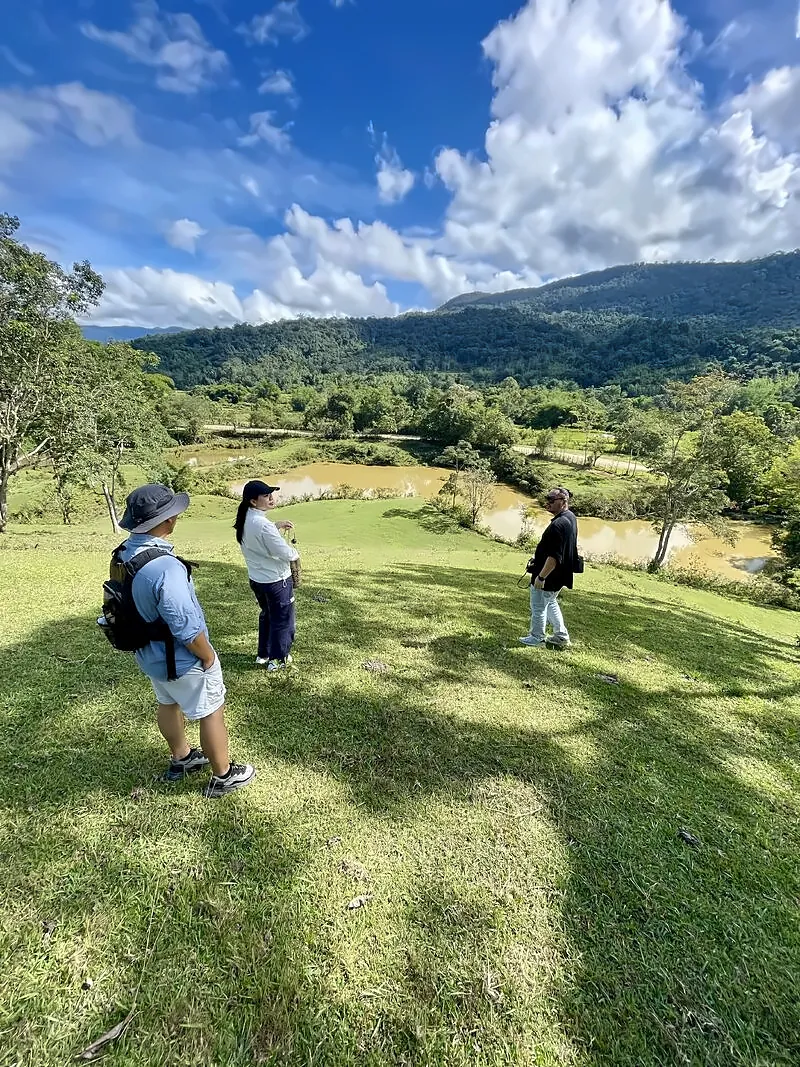
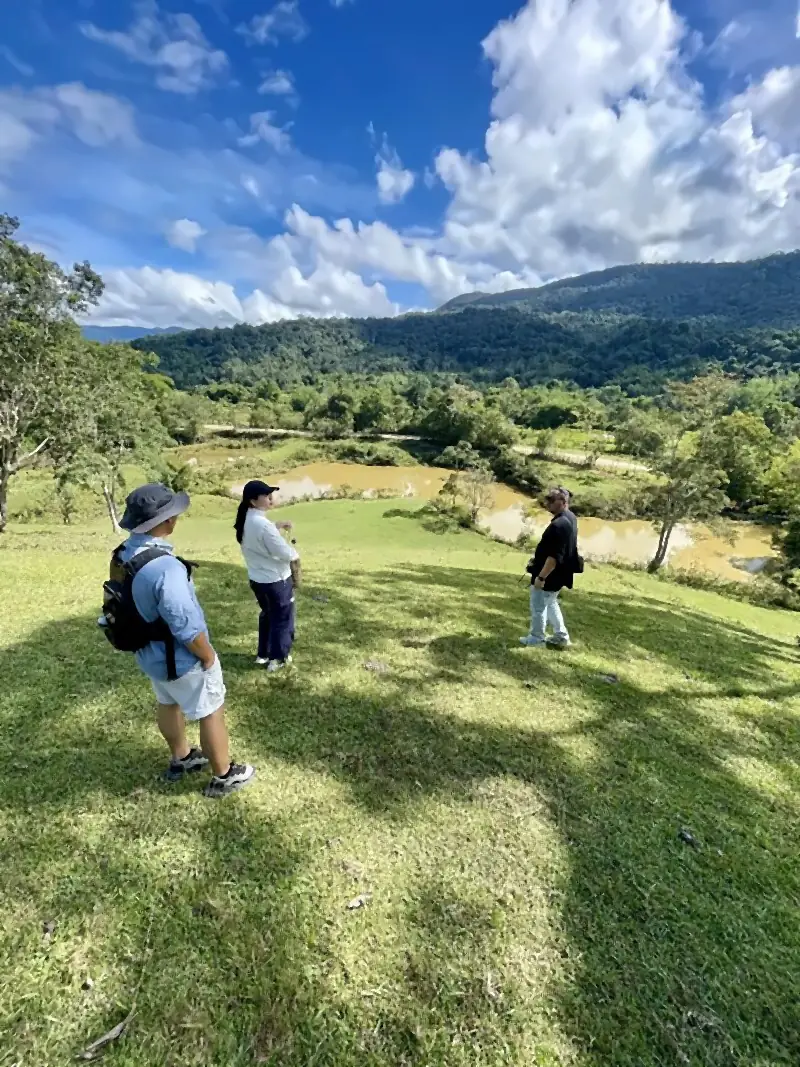
Review fixes: credentials label, bio, page intros, contact heading, new headshot
- Home intro label shows credentials only (no "About ·")
- Second bio paragraph no longer repeats "My research…"
- Research intro and Publications intro ("Publications to date") rewritten
- Contact band: "Get in touch" heading with the welcome line below it
- New headshot cropped from the Perth photo (640×800); headshot TODO removed
- semadoh-highlands.webp recompressed (281 KB → 127 KB)

Claude-Session: https://claude.ai/code/session_01BHaNzAzSg7x4kSjcefhwGM

Changed region(s): [[0.0, 0.1856, 1.0, 1.0], [0.6562, 0.2784, 0.7812, 0.3093]]

diff --git a/assets/js/main.js b/assets/js/main.js
@@ -456,7 +456,7 @@
         '</div></section>' +
 
       '<section class="intro wrap" aria-labelledby="intro-h">' +
-        '<p class="eyebrow">' + esc(c.about.heading) + ' · ' + esc(h.credentials) + '</p>' +
+        '<p class="eyebrow">' + esc(h.credentials) + '</p>' +
         '<h2 id="intro-h" class="display">' + esc(H.statement) + '</h2>' +
         '<div class="intro__cols"><figure class="intro__photo"><picture>' +
           (ph.webp ? '<source srcset="' + esc(ph.webp) + '" type="image/webp">' : '') +
@@ -555,7 +555,7 @@
 
     var ct = c.contact;
     $('contact').innerHTML = '<div class="wrap contact">' +
-      '<div><p class="eyebrow">' + esc(ct.heading) + '</p><h2 id="contact-h" class="display">' + rich(ct.text) + '</h2></div>' +
+      '<div><h2 id="contact-h" class="display">' + esc(ct.heading) + '</h2><p class="contact__lead">' + rich(ct.text) + '</p></div>' +
       '<div class="contact__side"><p class="contact__email">' + link('mailto:' + ct.email, esc(ct.email)) + '</p>' +
       '<address>' + ct.address.map(esc).join('<br>') + '</address>' + linksHtml(c) + '</div></div>';
 

diff --git a/assets/css/style.css b/assets/css/style.css
@@ -401,7 +401,8 @@ a.metarow:hover .metarow__line { opacity: 1; }
 
 /* ---------- contact band ---------- */
 .contact { display: grid; gap: 2rem; padding-top: 4.5rem; padding-bottom: 4rem; }
-.contact .display { margin-top: .8rem; font-size: clamp(2rem, 5.5vw, 3.5rem); max-width: 18ch; }
+.contact .display { margin-top: 0; font-size: clamp(2rem, 5.5vw, 3.5rem); max-width: 18ch; }
+.contact__lead { margin-top: 1rem; max-width: 34ch; color: #C9D8CD; font-size: 1.0625rem; }
 .contact__email { margin-top: 0; font: 400 clamp(1.25rem, 5vw, 1.75rem)/1.2 var(--serif); overflow-wrap: anywhere; }
 .contact address { margin-top: .75rem; color: rgba(251, 249, 244, .72); font-size: .9375rem; }
 .band--dark .links a { background: transparent; color: var(--paper); border-color: rgba(251, 249, 244, .3); }
